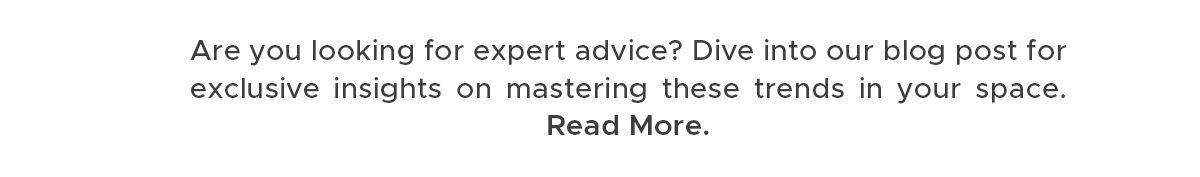
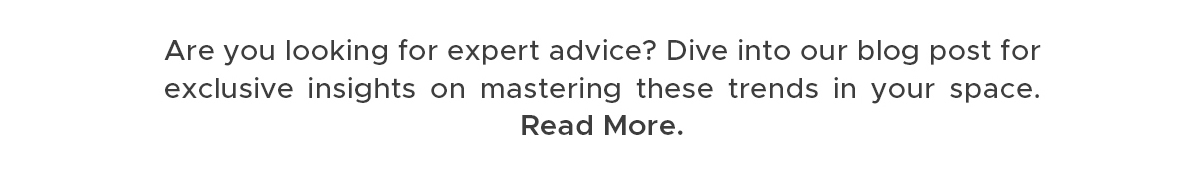
center image

Changed region(s): [[0.1233, 0.4237, 0.8942, 0.5932], [0.1233, 0.226, 0.8942, 0.3672], [0.4317, 0.6497, 0.6167, 0.7627]]

diff --git a/Jan262024/index.html b/Jan262024/index.html
@@ -46,7 +46,7 @@
 				<tr>
 					<td>
 						<a target="_blank" href="https://blog.floorcenter.com/best-tiles-for-kitchen-in-2024-where-style-meets-function/"></a>
-							<div style="background-image: url(https://raw.githubusercontent.com/MJ-mores24/fc-newsletter/main/Jan262024/Text.jpg); background-size: cover; height: 89px;"></div>
+							<div style="background-image: url(https://raw.githubusercontent.com/MJ-mores24/fc-newsletter/main/Jan262024/Text.jpg); background-size: cover; height: 60px;"></div>
 						</a></a>
 					</td>
 				</tr>
